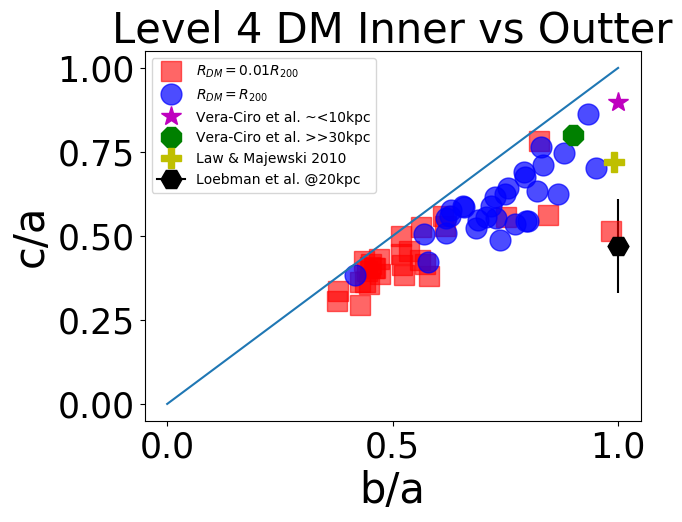
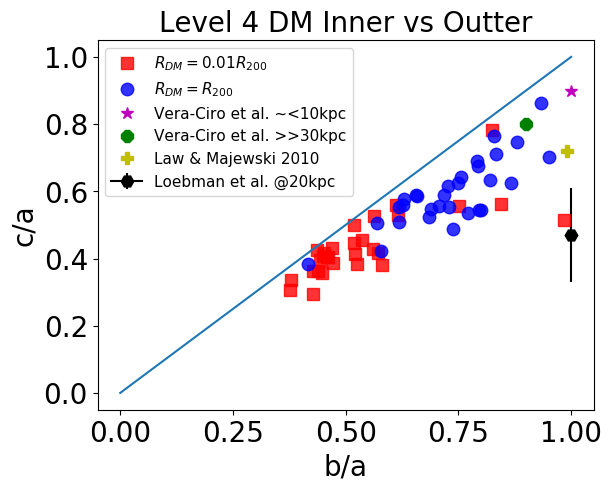
almost done

diff --git a/Code/Triaxiality.py b/Code/Triaxiality.py
@@ -62,9 +62,9 @@ np.savetxt("../Plots/Triaxiality/"+lvl+"/Eigenvecs_rvir_1e2rvir.csv",eigenvecs,d
 ############################################################
 # Fonts 
 # Fonts 
-MEDIUM_SIZE = 30
-SMALL_SIZE = 25
-SSSMALL_SIZE = 10
+MEDIUM_SIZE = 20
+SMALL_SIZE = 20
+SSSMALL_SIZE = 11
 plt.rc('font', size=SSSMALL_SIZE)          # controls default text sizes
 plt.rc('axes', titlesize=MEDIUM_SIZE)     # fontsize of the axes title
 plt.rc('axes', labelsize=MEDIUM_SIZE)    # fontsize of the x and y labels
@@ -101,16 +101,16 @@ print( "rvir4 = ", (axes2[:,0]*axes2[:,1]*axes2[:,2])**(1./3.))
 
 # Plots axial ratios c/a Vs b/a for R = 0.01Rvir 
 plt.plot(axes1_3[:,1]/axes1_3[:,0],axes1_3[:,2]/axes1_3[:,0], marker = 'o',
-markersize = 15, c = 'b', alpha = 0.6, linewidth = 0, label = r"$R_{MHD} = 0.01R_{200}$" )
+markersize = 9, c = 'b', alpha = 0.8, linewidth = 0, label = r"$R_{MHD} = 0.01R_{200}$" )
 plt.plot(axes1no_3[:,1]/axes1no_3[:,0],axes1no_3[:,2]/axes1no_3[:,0], marker = 's',
-markersize = 15, c = 'r', alpha = 0.6, linewidth = 0, label = r"$R_{DM} = 0.01R_{200}$" )
+markersize = 9, c = 'r', alpha = 0.8, linewidth = 0, label = r"$R_{DM} = 0.01R_{200}$" )
 
 
 # Plots Observational references
-plt.errorbar([1],[0.47], yerr = 0.14, label = "Loebman et al. @20kpc",marker = 'H',markersize = 15, color = 'black')
-plt.plot([1],[0.9], label = "Vera-Ciro et al. ~<10kpc",marker = '*',linewidth = 0, markersize = 15,c = 'm')#<~ 10kpc
-plt.plot([0.9],[0.8], label = "Vera-Ciro et al. >>30kpc",marker = '8',linewidth = 0, markersize = 15, c = 'g')#>> 30kpc
-plt.plot([0.99],[0.72], label = "Law & Majewski 2010 ",marker = 'P',linewidth = 0, markersize = 15, c = 'y')# Must be outerskirts
+plt.errorbar([1],[0.47], yerr = 0.14, label = "Loebman et al. @20kpc",marker = 'H',markersize = 9, color = 'black')
+plt.plot([1],[0.9], label = "Vera-Ciro et al. ~<10kpc",marker = '*',linewidth = 0, markersize = 9,c = 'm')#<~ 10kpc
+plt.plot([0.9],[0.8], label = "Vera-Ciro et al. >>30kpc",marker = '8',linewidth = 0, markersize = 9, c = 'g')#>> 30kpc
+plt.plot([0.99],[0.72], label = "Law & Majewski 2010 ",marker = 'P',linewidth = 0, markersize = 9, c = 'y')# Must be outerskirts
 plt.plot([0,1],[0,1])
 
 plt.xlim(-0.05,1.05)
@@ -141,16 +141,16 @@ plt.rc('ytick', labelsize=SMALL_SIZE)    # fontsize of the tick labels
 
 # Plots axial ratios c/a Vs b/a for R = Rvir 
 plt.plot(axes2_3[:,1]/axes2_3[:,0],axes2_3[:,2]/axes2_3[:,0], marker = 'o',
-c = 'blue',markersize = 15, alpha = 0.7, linewidth = 0, label = r"$R_{MHD} = R_{200}$" )
+c = 'blue',markersize = 9, alpha = 0.8, linewidth = 0, label = r"$R_{MHD} = R_{200}$" )
 plt.plot(axes2no_3[:,1]/axes2no_3[:,0],axes2no_3[:,2]/axes2no_3[:,0], marker = 's',
-c = 'red',markersize = 15, alpha = 0.7, linewidth = 0, label = r"$R_{DM} = R_{200}$" )
+c = 'red',markersize = 9, alpha = 0.8, linewidth = 0, label = r"$R_{DM} = R_{200}$" )
 
 
 # Plots Observational references
-plt.errorbar([1],[0.47], yerr = 0.14, label = "Loebman et al. @20kpc",marker = 'H',markersize = 15, color = 'black')
-plt.plot([1],[0.9], label = "Vera-Ciro et al. ~<10kpc",marker = '*',linewidth = 0, markersize = 15,c = 'm')#<~ 10kpc
-plt.plot([0.9],[0.8], label = "Vera-Ciro et al. >>30kpc",marker = '8',linewidth = 0, markersize = 15, c = 'g')#>> 30kpc
-plt.plot([0.99],[0.72], label = "Law & Majewski 2010 ",marker = 'P',linewidth = 0, markersize = 15, c = 'y')# Must be outerskirts
+plt.errorbar([1],[0.47], yerr = 0.14, label = "Loebman et al. @20kpc",marker = 'H',markersize = 9, color = 'black')
+plt.plot([1],[0.9], label = "Vera-Ciro et al. ~<10kpc",marker = '*',linewidth = 0, markersize = 9,c = 'm')#<~ 10kpc
+plt.plot([0.9],[0.8], label = "Vera-Ciro et al. >>30kpc",marker = '8',linewidth = 0, markersize = 9, c = 'g')#>> 30kpc
+plt.plot([0.99],[0.72], label = "Law & Majewski 2010 ",marker = 'P',linewidth = 0, markersize = 9, c = 'y')# Must be outerskirts
 plt.plot([0,1],[0,1])
 
 plt.xlim(-0.05,1.05)
@@ -179,15 +179,15 @@ plt.rc('ytick', labelsize=SMALL_SIZE)    # fontsize of the tick labels
 
 # Plots axial ratios c/a Vs b/a for R = 0.01Rvir 
 plt.plot(axes1[:,1]/axes1[:,0],axes1[:,2]/axes1[:,0], marker = 's',
- c = 'r',markersize = 15, alpha = 0.6, linewidth = 0, label = r"$R_{MHD} = 0.01R_{200}$" )
+ c = 'r',markersize = 9, alpha = 0.8, linewidth = 0, label = r"$R_{MHD} = 0.01R_{200}$" )
 plt.plot(axes1no[:,1]/axes1no[:,0],axes1no[:,2]/axes1no[:,0], marker = 'o',
-c = 'b',markersize = 15, alpha = 0.6, linewidth = 0, label = r"$R_{DM} = 0.01R_{200}$" )
+c = 'b',markersize = 9, alpha = 0.8, linewidth = 0, label = r"$R_{DM} = 0.01R_{200}$" )
 
 # Plots Observational references
-plt.errorbar([1],[0.47], yerr = 0.14, label = "Loebman et al. @20kpc",marker = 'H',markersize = 15, color = 'black')
-plt.plot([1],[0.9], label = "Vera-Ciro et al. ~<10kpc",marker = '*',linewidth = 0, markersize = 15,c = 'm')#<~ 10kpc
-plt.plot([0.9],[0.8], label = "Vera-Ciro et al. >>30kpc",marker = '8',linewidth = 0, markersize = 15, c = 'g')#>> 30kpc
-plt.plot([0.99],[0.72], label = "Law & Majewski 2010 ",marker = 'P',linewidth = 0, markersize = 15, c = 'y')# Must be outerskirts
+plt.errorbar([1],[0.47], yerr = 0.14, label = "Loebman et al. @20kpc",marker = 'H',markersize = 9, color = 'black')
+plt.plot([1],[0.9], label = "Vera-Ciro et al. ~<10kpc",marker = '*',linewidth = 0, markersize = 9,c = 'm')#<~ 10kpc
+plt.plot([0.9],[0.8], label = "Vera-Ciro et al. >>30kpc",marker = '8',linewidth = 0, markersize = 9, c = 'g')#>> 30kpc
+plt.plot([0.99],[0.72], label = "Law & Majewski 2010 ",marker = 'P',linewidth = 0, markersize = 9, c = 'y')# Must be outerskirts
 plt.plot([0,1],[0,1])
 
 plt.xlim(-0.05,1.05)
@@ -214,15 +214,15 @@ plt.rc('ytick', labelsize=SMALL_SIZE)    # fontsize of the tick labels
 
 # Plots axial ratios c/a Vs b/a for R = Rvir 
 plt.plot(axes2[:,1]/axes2[:,0],axes2[:,2]/axes2[:,0], marker = 's', 
- c = 'blue',markersize = 15, alpha = 0.7, linewidth = 0, label = r"$R_{MHD} = R_{200}$" )
+ c = 'blue',markersize = 9, alpha = 0.8, linewidth = 0, label = r"$R_{MHD} = R_{200}$" )
 plt.plot(axes2no[:,1]/axes2no[:,0],axes2no[:,2]/axes2no[:,0], marker = 'o', 
-c = 'red',markersize = 15, alpha = 0.7, linewidth = 0, label = r"$R_{DM} = R_{200}$" )
+c = 'red',markersize = 9, alpha = 0.8, linewidth = 0, label = r"$R_{DM} = R_{200}$" )
 
 # Plots Observational references
-plt.errorbar([1],[0.47], yerr = 0.14, label = "Loebman et al. @20kpc",marker = 'H',markersize = 15, color = 'black')
-plt.plot([1],[0.9], label = "Vera-Ciro et al. ~<10kpc",marker = '*',linewidth = 0, markersize = 15,c = 'm')#<~ 10kpc
-plt.plot([0.9],[0.8], label = "Vera-Ciro et al. >>30kpc",marker = '8',linewidth = 0, markersize = 15, c = 'g')#>> 30kpc
-plt.plot([0.99],[0.72], label = "Law & Majewski 2010 ",marker = 'P',linewidth = 0, markersize = 15, c = 'y')# Must be outerskirts
+plt.errorbar([1],[0.47], yerr = 0.14, label = "Loebman et al. @20kpc",marker = 'H',markersize = 9, color = 'black')
+plt.plot([1],[0.9], label = "Vera-Ciro et al. ~<10kpc",marker = '*',linewidth = 0, markersize = 9,c = 'm')#<~ 10kpc
+plt.plot([0.9],[0.8], label = "Vera-Ciro et al. >>30kpc",marker = '8',linewidth = 0, markersize = 9, c = 'g')#>> 30kpc
+plt.plot([0.99],[0.72], label = "Law & Majewski 2010 ",marker = 'P',linewidth = 0, markersize = 9, c = 'y')# Must be outerskirts
 plt.plot([0,1],[0,1])
 
 plt.xlim(-0.05,1.05)
@@ -247,15 +247,15 @@ plt.rc('ytick', labelsize=SMALL_SIZE)    # fontsize of the tick labels
 
 # Plots axial ratios c/a Vs b/a for R = Rvir and R= 0.01Rvir
 plt.plot(axes1no[:,1]/axes1no[:,0],axes1no[:,2]/axes1no[:,0], marker = 's',
-c = 'r',markersize = 15, alpha = 0.6, linewidth = 0, label = r"$R_{DM} = 0.01R_{200}$" )
+c = 'r',markersize = 9, alpha = 0.8, linewidth = 0, label = r"$R_{DM} = 0.01R_{200}$" )
 plt.plot(axes2no[:,1]/axes2no[:,0],axes2no[:,2]/axes2no[:,0], marker = 'o', 
-c = 'b',markersize = 15, alpha = 0.7, linewidth = 0, label = r"$R_{DM} = R_{200}$" )
+c = 'b',markersize = 9, alpha = 0.8, linewidth = 0, label = r"$R_{DM} = R_{200}$" )
 
 # Plots Observational references
-plt.errorbar([1],[0.47], yerr = 0.14, label = "Loebman et al. @20kpc",marker = 'H',markersize = 15, color = 'black')
-plt.plot([1],[0.9], label = "Vera-Ciro et al. ~<10kpc",marker = '*',linewidth = 0, markersize = 15,c = 'm')#<~ 10kpc
-plt.plot([0.9],[0.8], label = "Vera-Ciro et al. >>30kpc",marker = '8',linewidth = 0, markersize = 15, c = 'g')#>> 30kpc
-plt.plot([0.99],[0.72], label = "Law & Majewski 2010 ",marker = 'P',linewidth = 0, markersize = 15, c = 'y')# Must be outerskirts
+plt.errorbar([1],[0.47], yerr = 0.14, label = "Loebman et al. @20kpc",marker = 'H',markersize = 9, color = 'black')
+plt.plot([1],[0.9], label = "Vera-Ciro et al. ~<10kpc",marker = '*',linewidth = 0, markersize = 9,c = 'm')#<~ 10kpc
+plt.plot([0.9],[0.8], label = "Vera-Ciro et al. >>30kpc",marker = '8',linewidth = 0, markersize = 9, c = 'g')#>> 30kpc
+plt.plot([0.99],[0.72], label = "Law & Majewski 2010 ",marker = 'P',linewidth = 0, markersize = 9, c = 'y')# Must be outerskirts
 plt.plot([0,1],[0,1])
 
 plt.xlim(-0.05,1.05)
@@ -281,15 +281,15 @@ plt.rc('ytick', labelsize=SMALL_SIZE)    # fontsize of the tick labels
 
 # Plots axial ratios c/a Vs b/a for R = Rvir and R= 0.01Rvir
 plt.plot(axes1[:,1]/axes1[:,0],axes1[:,2]/axes1[:,0], marker = 's', 
-c = 'r',markersize = 15, alpha = 0.6, linewidth = 0, label = r"$R_{MHD} = 0.01R_{200}$" )
+c = 'r',markersize = 9, alpha = 0.8, linewidth = 0, label = r"$R_{MHD} = 0.01R_{200}$" )
 plt.plot(axes2[:,1]/axes2[:,0],axes2[:,2]/axes2[:,0], marker = 'o', 
-c = 'b',markersize = 15, alpha = 0.7, linewidth = 0, label = r"$R_{MHD} = R_{200}$" )
+c = 'b',markersize = 9, alpha = 0.8, linewidth = 0, label = r"$R_{MHD} = R_{200}$" )
 
 # Plots Observational references
-plt.errorbar([1],[0.47], yerr = 0.14, label = "Loebman et al. @20kpc",marker = 'H',markersize = 15, color = 'black')
-plt.plot([1],[0.9], label = "Vera-Ciro et al. ~<10kpc",marker = '*',linewidth = 0, markersize = 15,c = 'm')#<~ 10kpc
-plt.plot([0.9],[0.8], label = "Vera-Ciro et al. >>30kpc",marker = '8',linewidth = 0, markersize = 15, c = 'g')#>> 30kpc
-plt.plot([0.99],[0.72], label = "Law & Majewski 2010 ",marker = 'P',linewidth = 0, markersize = 15, c = 'y')# Must be outerskirts
+plt.errorbar([1],[0.47], yerr = 0.14, label = "Loebman et al. @20kpc",marker = 'H',markersize = 9, color = 'black')
+plt.plot([1],[0.9], label = "Vera-Ciro et al. ~<10kpc",marker = '*',linewidth = 0, markersize = 9,c = 'm')#<~ 10kpc
+plt.plot([0.9],[0.8], label = "Vera-Ciro et al. >>30kpc",marker = '8',linewidth = 0, markersize = 9, c = 'g')#>> 30kpc
+plt.plot([0.99],[0.72], label = "Law & Majewski 2010 ",marker = 'P',linewidth = 0, markersize = 9, c = 'y')# Must be outerskirts
 plt.plot([0,1],[0,1])
 
 plt.xlim(-0.05,1.05)
@@ -315,15 +315,15 @@ plt.rc('ytick', labelsize=SMALL_SIZE)    # fontsize of the tick labels
 
 # Plots axial ratios c/a Vs b/a for R = Rvir and R= 0.01Rvir
 plt.plot(axes1no_3[:,1]/axes1no_3[:,0],axes1no_3[:,2]/axes1no_3[:,0], marker = 's',
-c = 'r',markersize = 15, alpha = 0.6, linewidth = 0, label = r"$R_{DM} = 0.01R_{200}$" )
+c = 'r',markersize = 9, alpha = 0.8, linewidth = 0, label = r"$R_{DM} = 0.01R_{200}$" )
 plt.plot(axes2no_3[:,1]/axes2no_3[:,0],axes2no_3[:,2]/axes2no_3[:,0], marker = 'o',
-c = 'b',markersize = 15, alpha = 0.7, linewidth = 0, label = r"$R_{DM} = R_{200}$" )
+c = 'b',markersize = 9, alpha = 0.8, linewidth = 0, label = r"$R_{DM} = R_{200}$" )
 
 # Plots Observational references
-plt.errorbar([1],[0.47], yerr = 0.14, label = "Loebman et al. @20kpc",marker = 'H',markersize = 15, color = 'black')
-plt.plot([1],[0.9], label = "Vera-Ciro et al. ~<10kpc",marker = '*',linewidth = 0, markersize = 15,c = 'm')#<~ 10kpc
-plt.plot([0.9],[0.8], label = "Vera-Ciro et al. >>30kpc",marker = '8',linewidth = 0, markersize = 15, c = 'g')#>> 30kpc
-plt.plot([0.99],[0.72], label = "Law & Majewski 2010 ",marker = 'P',linewidth = 0, markersize = 15, c = 'y')# Must be outerskirts
+plt.errorbar([1],[0.47], yerr = 0.14, label = "Loebman et al. @20kpc",marker = 'H',markersize = 9, color = 'black')
+plt.plot([1],[0.9], label = "Vera-Ciro et al. ~<10kpc",marker = '*',linewidth = 0, markersize = 9,c = 'm')#<~ 10kpc
+plt.plot([0.9],[0.8], label = "Vera-Ciro et al. >>30kpc",marker = '8',linewidth = 0, markersize = 9, c = 'g')#>> 30kpc
+plt.plot([0.99],[0.72], label = "Law & Majewski 2010 ",marker = 'P',linewidth = 0, markersize = 9, c = 'y')# Must be outerskirts
 plt.plot([0,1],[0,1])
 
 plt.xlim(-0.05,1.05)
@@ -349,15 +349,15 @@ plt.rc('ytick', labelsize=SMALL_SIZE)    # fontsize of the tick labels
 
 # Plots axial ratios c/a Vs b/a for R = Rvir and R= 0.01Rvir
 plt.plot(axes1_3[:,1]/axes1_3[:,0],axes1_3[:,2]/axes1_3[:,0], marker = 's',
-c = 'r',markersize = 15, alpha = 0.6, linewidth = 0, label = r"$R_{MHD} = 0.01R_{200}$" )
+c = 'r',markersize = 9, alpha = 0.8, linewidth = 0, label = r"$R_{MHD} = 0.01R_{200}$" )
 plt.plot(axes2_3[:,1]/axes2_3[:,0],axes2_3[:,2]/axes2_3[:,0], marker = 'o',
-c = 'blue',markersize = 15, alpha = 0.7, linewidth = 0, label = r"$R_{MHD} = R_{200}$" )
+c = 'blue',markersize = 9, alpha = 0.8, linewidth = 0, label = r"$R_{MHD} = R_{200}$" )
 
 # Plots Observational references
-plt.errorbar([1],[0.47], yerr = 0.14, label = "Loebman et al. @20kpc",marker = 'H',markersize = 15, color = 'black')
-plt.plot([1],[0.9], label = "Vera-Ciro et al. ~<10kpc",marker = '*',linewidth = 0, markersize = 15,c = 'm')#<~ 10kpc
-plt.plot([0.9],[0.8], label = "Vera-Ciro et al. >>30kpc",marker = '8',linewidth = 0, markersize = 15, c = 'g')#>> 30kpc
-plt.plot([0.99],[0.72], label = "Law & Majewski 2010 ",marker = 'P',linewidth = 0, markersize = 15, c = 'y')# Must be outerskirts
+plt.errorbar([1],[0.47], yerr = 0.14, label = "Loebman et al. @20kpc",marker = 'H',markersize = 9, color = 'black')
+plt.plot([1],[0.9], label = "Vera-Ciro et al. ~<10kpc",marker = '*',linewidth = 0, markersize = 9,c = 'm')#<~ 10kpc
+plt.plot([0.9],[0.8], label = "Vera-Ciro et al. >>30kpc",marker = '8',linewidth = 0, markersize = 9, c = 'g')#>> 30kpc
+plt.plot([0.99],[0.72], label = "Law & Majewski 2010 ",marker = 'P',linewidth = 0, markersize = 9, c = 'y')# Must be outerskirts
 plt.plot([0,1],[0,1])
 
 plt.xlim(-0.05,1.05)
